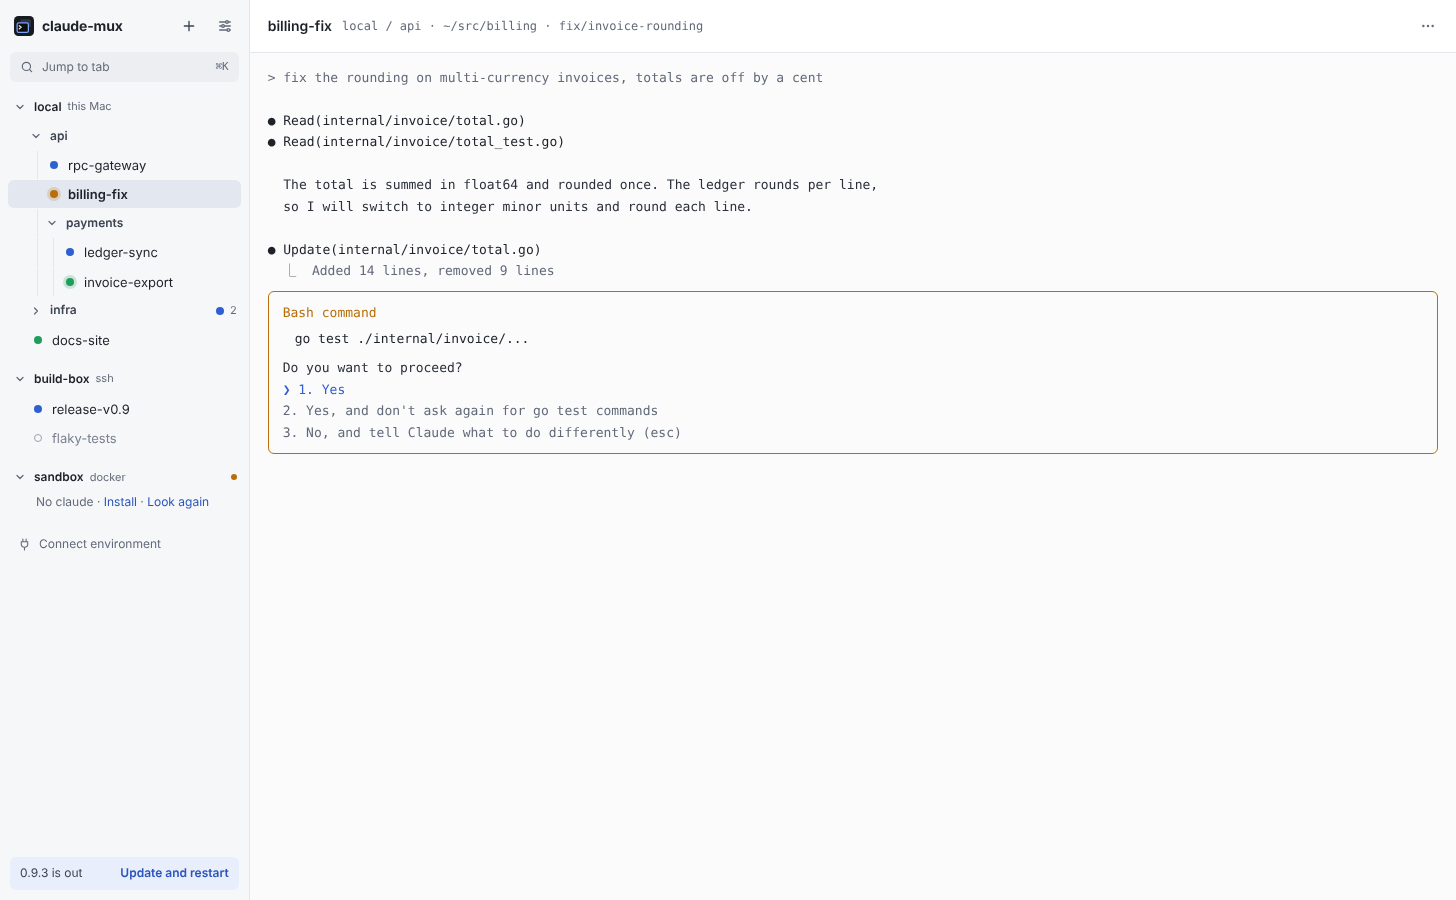
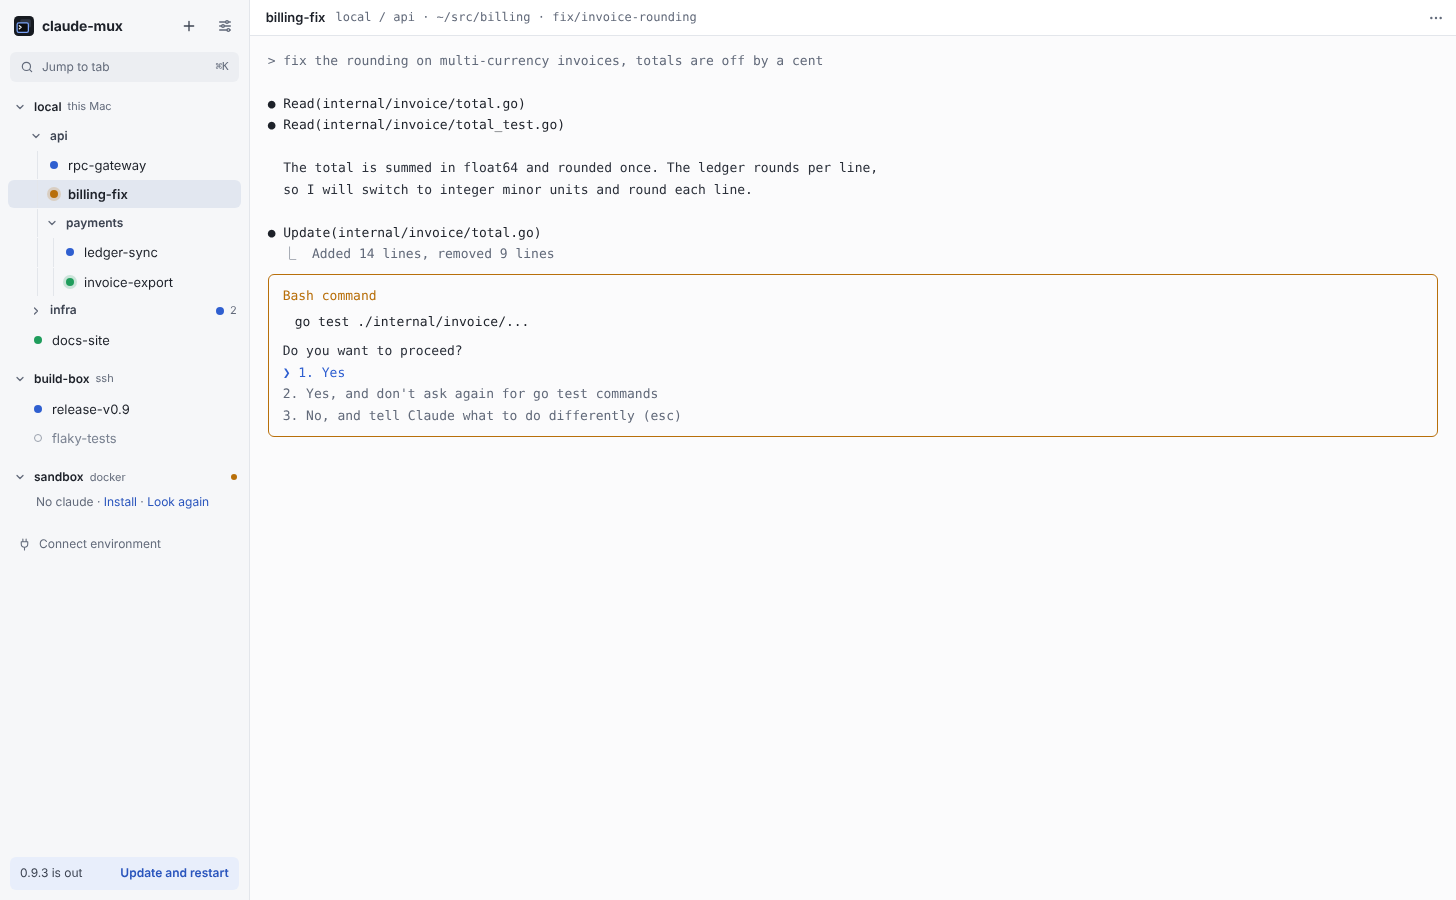
The bar above the terminal is one compact 36 px line

Changed region(s): [[0.1854, 0.0, 0.5872, 0.4978], [0.3091, 0.0, 0.4945, 0.0311]]

diff --git a/docs/redesign/mockups/Main.dc.html b/docs/redesign/mockups/Main.dc.html
@@ -92,10 +92,10 @@ body{margin:0}
 </div>
 </aside>
 <main style="flex: 999 1 560px; min-width: 0; display: flex; flex-direction: column; background: {{c.bg}}">
-<div style="display: flex; align-items: center; gap: 10px; padding: 10px 12px 10px 18px; border-bottom: 1px solid {{c.line}}; flex-wrap: wrap">
-<span style="font-weight: 600; font-size: 14px">{{cur.name}}</span>
+<div style="display: flex; align-items: center; gap: 10px; height: 36px; box-sizing: border-box; padding: 0 6px 0 16px; border-bottom: 1px solid {{c.line}}">
+<span style="font-weight: 600; font-size: 13px; white-space: nowrap">{{cur.name}}</span>
 <span style="font-family: 'JetBrains Mono', monospace; font-size: 12px; color: {{c.muted}}; white-space: nowrap; overflow: hidden; text-overflow: ellipsis; min-width: 0; flex: 1 1 200px">{{cur.crumb}}</span>
-<a href="TabSettings.dc.html" aria-label="Tab settings" title="Tab settings" style="width: 32px; height: 32px; display: grid; place-items: center; border-radius: 6px; color: {{c.muted}}"><svg width="16" height="16" viewBox="0 0 24 24" fill="currentColor" aria-hidden="true"><circle cx="5" cy="12" r="1.8"></circle><circle cx="12" cy="12" r="1.8"></circle><circle cx="19" cy="12" r="1.8"></circle></svg></a>
+<a href="TabSettings.dc.html" aria-label="Tab settings" title="Tab settings (⌘I)" style="width: 28px; height: 28px; flex: none; display: grid; place-items: center; border-radius: 6px; color: {{c.muted}}"><svg width="16" height="16" viewBox="0 0 24 24" fill="currentColor" aria-hidden="true"><circle cx="5" cy="12" r="1.8"></circle><circle cx="12" cy="12" r="1.8"></circle><circle cx="19" cy="12" r="1.8"></circle></svg></a>
 </div>
 <div style="flex: 1 1 auto; display: flex; min-height: 0">
 <section aria-label="{{cur.name}}" style="flex: 1; min-width: 0; background: {{c.term}}; padding: 14px 18px; font-family: 'JetBrains Mono', monospace; font-size: 13px; line-height: 1.65; overflow: hidden">

diff --git a/internal/hub/web/style.css b/internal/hub/web/style.css
@@ -152,9 +152,9 @@ body.compact .tab { padding-top: 5px; padding-bottom: 5px; }
 
 /* main */
 main { display: flex; flex-direction: column; min-width: 0; min-height: 0; background: var(--bg); }
-.head { display: flex; align-items: center; gap: 10px; padding: 10px 12px 10px 18px; border-bottom: 1px solid var(--line); min-height: 53px; }
-.head .tname { font-weight: 600; font-size: 14px; white-space: nowrap; }
-.head .icon-btn { width: 32px; height: 32px; }
+.head { display: flex; align-items: center; gap: 10px; height: 36px; flex: none; padding: 0 6px 0 16px; border-bottom: 1px solid var(--line); }
+.head .tname { font-weight: 600; font-size: 13px; white-space: nowrap; }
+.head .icon-btn { flex: none; }
 .head .crumb { font: 12px var(--mono); color: var(--muted); white-space: nowrap; overflow: hidden; text-overflow: ellipsis; min-width: 0; flex: 1 1 200px; }
 .stage { flex: 1 1 auto; position: relative; min-height: 0; }
 .term { position: absolute; inset: 0; display: none; padding: 8px 4px 4px 12px; overflow: hidden; }

diff --git a/docs/redesign/README.md b/docs/redesign/README.md
@@ -100,7 +100,9 @@ horizontal strip. One layout, done well, instead of two.
 - At the bottom, only when a release is out: *0.9.3 is out · Update and
   restart*.
 
-**Above the terminal**: the tab's name, then
+**Above the terminal**: one compact line, 36 px (the sidebar's top row
+keeps its own, roomier height; the two don't need to line up): the tab's
+name, then
 `env / group / subgroup · directory · branch` in mono, and **…**, which opens Tab
 settings. No status pill: the dot already says it.
 
